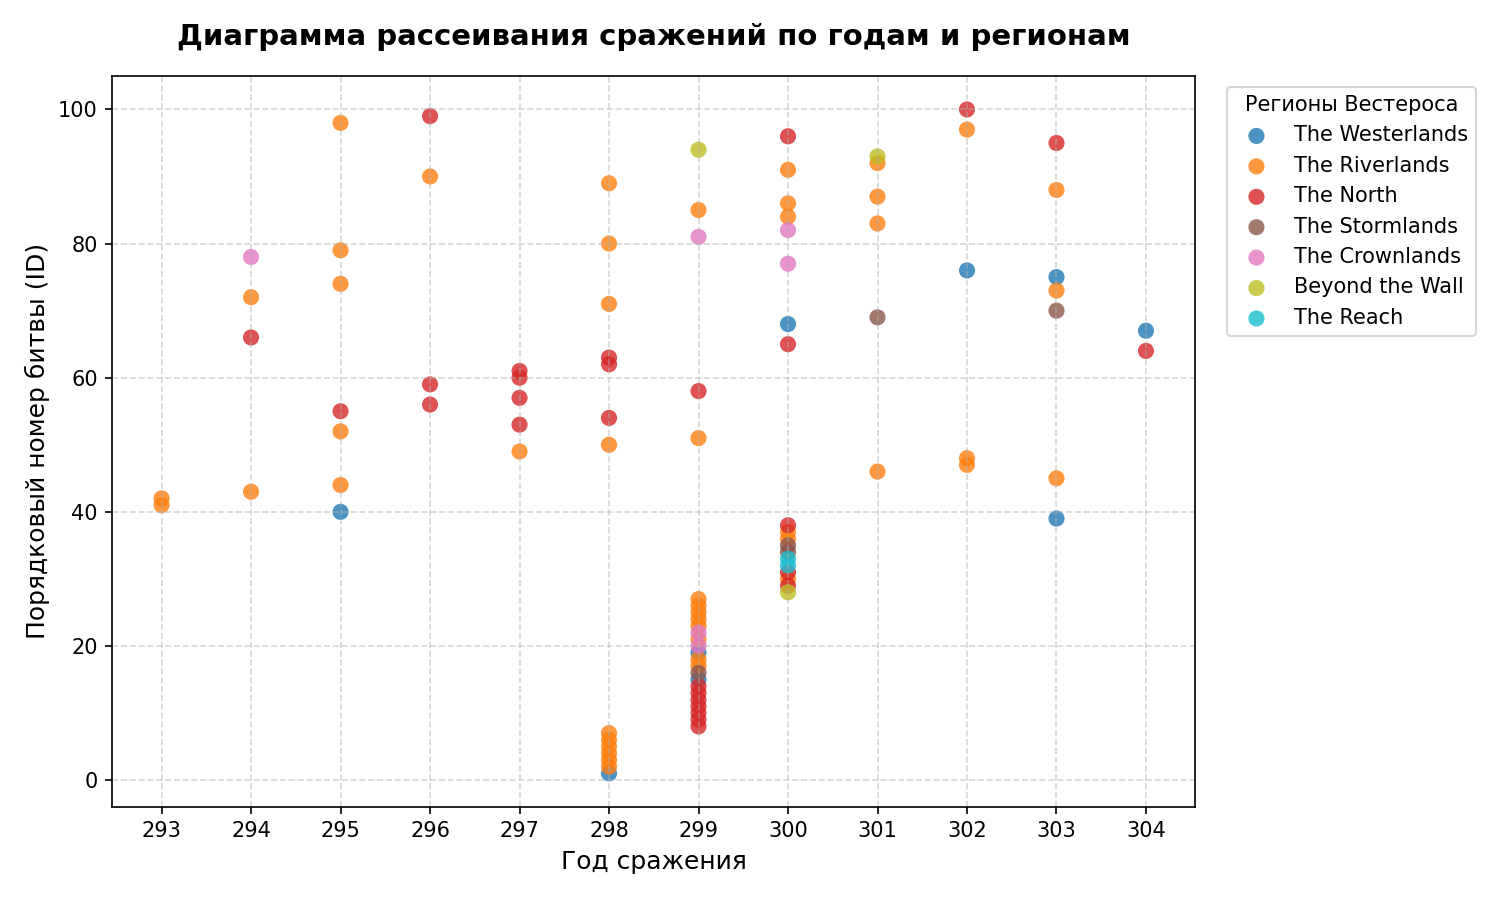
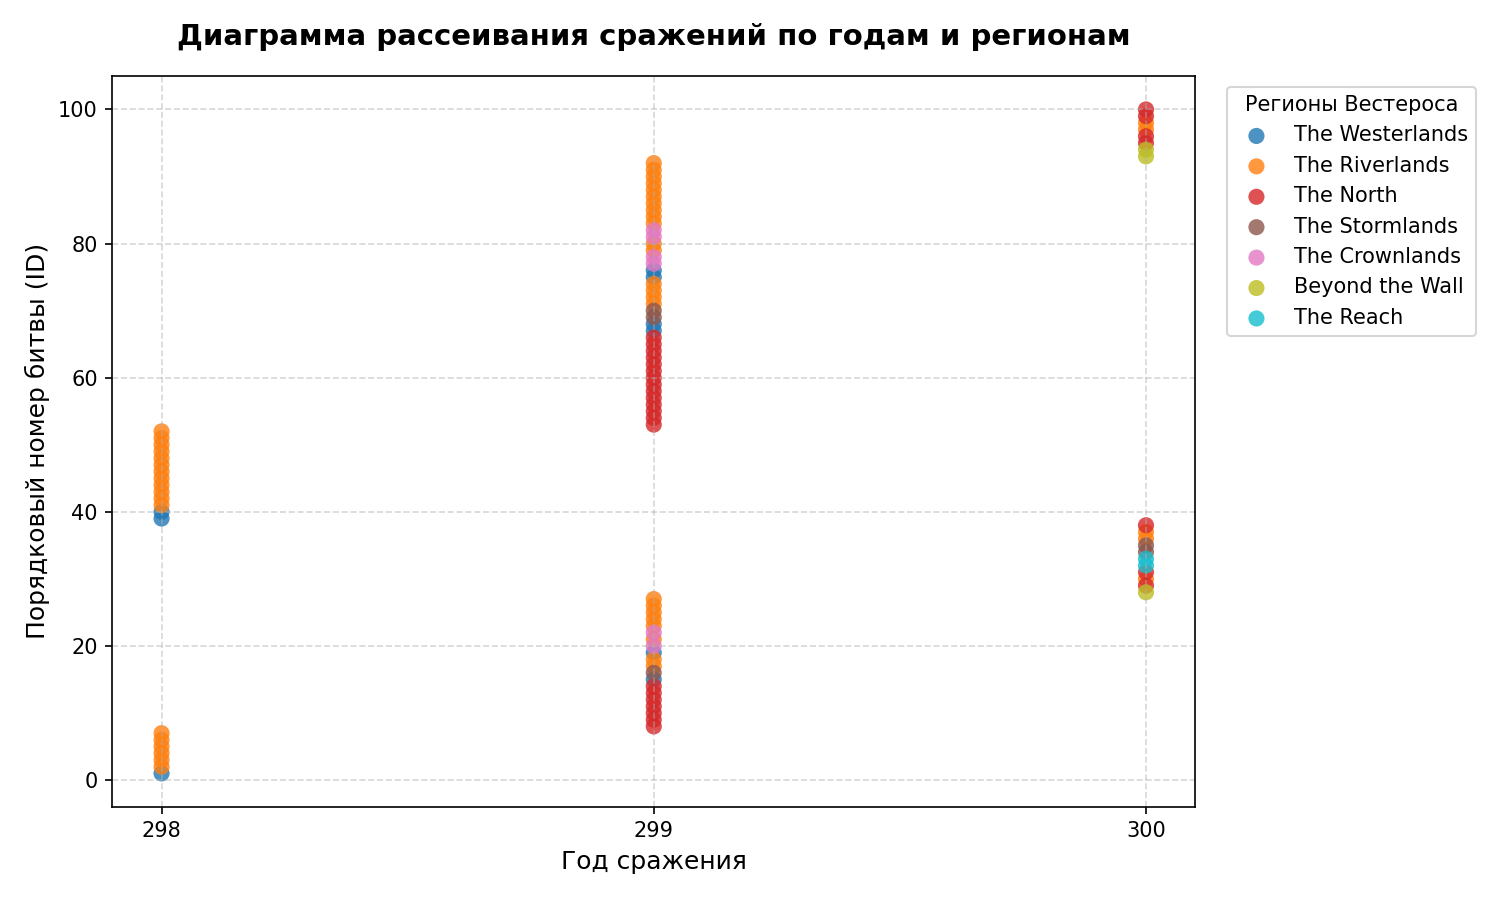
Final version of my project

diff --git a/work/scripts/reports.py b/work/scripts/reports.py
@@ -23,16 +23,12 @@ def generate_simple_report(df_characters):
     try:
         output_dir = "../output"
         os.makedirs(output_dir, exist_ok=True)
-
+        # Фильтрация справочника по мертвым
         filtered_df = df_characters[df_characters["жив/мертв"] == "Мертв"]
         final_df = filtered_df[["id", "имя", "дом", "культура", "пол", "возраст"]]
 
         report_path = os.path.join(output_dir, "1_simple_report.txt")
         with open(report_path, "w", encoding="utf-8") as f:
-            line_length = 115
-            sep_line = "=" * line_length
-            title = "ОТЧЕТ: СПИСОК ПОГИБШИХ ПЕРСОНАЖЕЙ"
-            centered_title = title.center(line_length)
             line_length = 115
             sep_line = "=" * line_length
             title = "ОТЧЕТ: СПИСОК ПОГИБШИХ ПЕРСОНАЖЕЙ"
@@ -69,7 +65,7 @@ def generate_stat_report(df_characters):
                 "==================================================\n\n"
                 "--- АНАЛИЗ КАЧЕСТВЕННЫХ ПЕРЕМЕННЫХ ---\n\n"
             )
-
+            # Анализ долей персонажей по полу и статусу жизни
             for col in ["жив/мертв", "пол"]:
                 f.write(f"Переменная: {col.upper()}\n")
                 f.write("-" * 30 + "\n")
@@ -78,7 +74,7 @@ def generate_stat_report(df_characters):
                 for idx in counts.index:
                     f.write(f"  {idx:<10} | Количество: {counts[idx]:<5} | Доля: {percentages[idx]:.2f}%\n")
                 f.write("\n")
-
+            # Качественные признаки возраста
             f.write("--- АНАЛИЗ КОЛИЧЕСТВЕННЫХ ПЕРЕМЕННЫХ (ВОЗРАСТ) ---\n\n")
             age_col = df_characters["возраст"]
             f.write(f"Минимум (min):      {age_col.min()} лет\n")
@@ -107,7 +103,7 @@ def generate_pivot_report(df_characters):
     try:
         output_dir = "../output"
         os.makedirs(output_dir, exist_ok=True)
-
+        # Создание pivot_table
         top_houses = df_characters["дом"].value_counts().head(10).index.tolist()
         df_filtered = df_characters[df_characters["дом"].isin(top_houses)]
         pivot_table = pd.pivot_table(
@@ -150,12 +146,17 @@ def generate_clustered_bar_chart(df_characters):
         os.makedirs(graphics_dir, exist_ok=True)
 
         df_copy = df_characters.copy()
+        # топ-5 домов по численности
         top_houses = df_copy["дом"].value_counts().iloc[1:6].index.tolist()
+        # объединяем остальные в "Другие Великие Дома"
         df_copy["дом_группа"] = df_copy["дом"].apply(lambda x: x if x in top_houses else "Другие Великие Дома")
+        # таблица: строки - дома, столбцы - жив/мертв
         pivot_data = pd.crosstab(df_copy["дом_группа"], df_copy["жив/мертв"])
+        # фиксируем порядок строк
         pivot_data = pivot_data.reindex(top_houses + ["Другие Великие Дома"])
 
         fig, ax = plt.subplots(figsize=(10, 6))
+        # группированная столбчатая диаграмма
         pivot_data.plot(kind="bar", ax=ax, color=["#e74c3c", "#2ecc71"], width=0.8)
         ax.set_title("Соотношение живых и погибших персонажей по Великим Домам", fontsize=14, fontweight="bold", pad=15)
         ax.set_xlabel("Великие Дома Вестероса", fontsize=12)
@@ -163,6 +164,7 @@ def generate_clustered_bar_chart(df_characters):
         ax.set_xticklabels(pivot_data.index, rotation=15)
         ax.grid(axis="y", linestyle="--", alpha=0.7)
         ax.legend(title="Статус персонажа")
+        # подписываем значения над столбцами
         for p in ax.patches:
             height = p.get_height()
             if height > 0:
@@ -198,7 +200,9 @@ def generate_categorized_histogram(df_characters):
         female_ages = df_copy[df_copy["пол"] == "Жен"]["возраст"]
 
         fig, ax = plt.subplots(figsize=(10, 6))
+        # Гистограмма мужчин
         ax.hist(male_ages, bins=20, alpha=0.6, color="#3498db", label="Мужчины", edgecolor="black")
+        # Гистограмма женщин
         ax.hist(female_ages, bins=20, alpha=0.6, color="#e74c3c", label="Женщины", edgecolor="black")
         ax.set_title("Категоризированная гистограмма распределения возраста", fontsize=14, fontweight="bold", pad=15)
         ax.set_xlabel("Возраст персонажей (лет)", fontsize=12)
@@ -231,13 +235,17 @@ def generate_boxplot(df_characters):
         os.makedirs(graphics_dir, exist_ok=True)
 
         df_copy = df_characters.copy()
-        top_houses = df_copy["дом"].value_counts().iloc[1:6].index.tolist()
+        # Топ-5 домов по численности
+        top_houses = df_copy["дом"].value_counts().head(5).index.tolist()
+        # Список возрастов для каждого дома
         data_to_plot = [df_copy[df_copy["дом"] == house]["возраст"] for house in top_houses]
 
         fig, ax = plt.subplots(figsize=(10, 6))
+        # Ящик с усами
         box = ax.boxplot(data_to_plot, patch_artist=True, labels=top_houses,
                          medianprops=dict(color="black", linewidth=1.5),
                          flierprops=dict(marker="o", markerfacecolor="red", markersize=6, linestyle="none"))
+        # Заливка ящиков
         for patch in box["boxes"]:
             patch.set_facecolor("#3498db")
             patch.set_alpha(0.7)
@@ -272,8 +280,11 @@ def generate_scatter_plot(df_battles):
 
         df_copy = df_battles.copy()
         fig, ax = plt.subplots(figsize=(10, 6))
+        # Уникальные регионы
         regions = df_copy["регион"].unique()
+        # Цветовая карта для регионов
         colors = plt.get_cmap("tab10", len(regions))
+        # точечная диаграмма по регионам
         for i, region in enumerate(regions):
             region_data = df_copy[df_copy["регион"] == region]
             ax.scatter(region_data["год"], region_data["id"], label=region,
@@ -283,6 +294,7 @@ def generate_scatter_plot(df_battles):
         ax.set_ylabel("Порядковый номер битвы (ID)", fontsize=12)
         ax.set_xticks(df_copy["год"].unique())
         ax.grid(True, linestyle="--", alpha=0.5)
+        # Легенда справа за границами графика
         ax.legend(title="Регионы Вестероса", bbox_to_anchor=(1.02, 1), loc="upper left", fontsize=10)
         plt.tight_layout()
         img_path = os.path.join(graphics_dir, "4_scatter_plot.png")

diff --git a/work/scripts/gui.py b/work/scripts/gui.py
@@ -22,6 +22,8 @@ def refresh_table(tree, dataframe):
         dataframe (pd.DataFrame) - данные для отображения.
     Возвращаемый объект: Нет.
     """
+    # Обновляет содержимое таблицы после каждого изменения справочника (добавление, удаление, изменение)
+    # с последующим отображением в графическом интерфейсе
     for item in tree.get_children():
         tree.delete(item)
     for _, row in dataframe.iterrows():
@@ -44,10 +46,12 @@ def delete_character(df_characters, char_tree):
     if not selected:
         messagebox.showwarning("Внимание", "Выберите строку для удаления!")
         return df_characters
-
+    # Получение строки из графического интерфейса
     record_id = int(char_tree.item(selected[0], "values")[0])
     if messagebox.askyesno("Подтверждение", f"Удалить персонажа с ID {record_id}?"):
+        # Удаление строки
         df_characters = df_characters[df_characters["id"] != record_id]
+        # Обновление справочника
         refresh_table(char_tree, df_characters)
     return df_characters
 
@@ -66,7 +70,8 @@ def add_character(root, df_characters, char_tree, settings):
     Возвращаемый объект:
         pd.DataFrame - обновлённый DataFrame персонажей.
     """
-    df_container = [df_characters]   # изменяемый контейнер
+    df_container = [df_characters]   # Изменяемый контейнер создан, чтобы его можно было передать в функцию
+    # on_save, своего рода передача массива по указателю, иначе бы в функции создалась локальная версия
 
     def on_save(data):
         if data["id"] is None:
@@ -105,7 +110,7 @@ def edit_character(root, df_characters, char_tree, settings):
         return df_characters
 
     values = char_tree.item(selected[0], "values")
-
+    # Здесь мы просто меняем значение в справочнике, не меняя ссылку на него
     def on_save(data):
         idx = df_characters[df_characters["id"] == int(data["id"])].index[0]
         for k, v in data.items():
@@ -219,9 +224,11 @@ def create_characters_tab(parent, settings, add_cmd, edit_cmd, del_cmd):
     Возвращаемый объект:
         ttk.Treeview - созданная таблица.
     """
+    # Создаем в отцовском фрейме фрейм для кнопок
     toolbar = tk.Frame(parent, bg=settings["bg_color"])
     toolbar.pack(side="top", fill="x", pady=5)
 
+    # Создаем кнопки
     tk.Button(toolbar, text="Добавить", font=(settings["font_family"], settings["font_size"]),
               bg="#d4edda", command=add_cmd).pack(side="left", padx=5)
     tk.Button(toolbar, text="Редактировать", font=(settings["font_family"], settings["font_size"]),
@@ -230,12 +237,15 @@ def create_characters_tab(parent, settings, add_cmd, edit_cmd, del_cmd):
               bg="#f8d7da", command=del_cmd).pack(side="left", padx=5)
 
     columns = ["id", "имя", "дом", "культура", "пол", "возраст", "жив/мертв"]
+    # Создаем таблицу в старшем фрейме
     tree = ttk.Treeview(parent, columns=columns, show="headings")
+    # Заполняем ее
     for col in columns:
         tree.heading(col, text=col.upper())
         tree.column(col, width=110, anchor="center")
-
+    # Создаем скролл для ориентации по таблице
     scrollbar = ttk.Scrollbar(parent, orient="vertical", command=tree.yview)
+    # Собираем его
     tree.configure(yscrollcommand=scrollbar.set)
     tree.pack(side="left", expand=True, fill="both")
     scrollbar.pack(side="right", fill="y")
@@ -307,7 +317,7 @@ def open_settings_window(root, settings_dict, on_save_callback, ini_path):
     preview_frame.pack(fill="both", expand=True, padx=10, pady=10)
 
     preview_label = None
-
+    # Меню выбора цвета
     def choose_bg_color():
         color = colorchooser.askcolor(title="Выберите цвет фона", initialcolor=bg_color_var.get())
         if color[1]:
@@ -316,6 +326,7 @@ def open_settings_window(root, settings_dict, on_save_callback, ini_path):
             if preview_label:
                 preview_label.configure(bg=bg_color_var.get())
 
+    # Меню выбора шрифта
     def update_preview_font(*args):
         family = font_family_var.get()
         size = font_size_var.get()
@@ -328,7 +339,7 @@ def open_settings_window(root, settings_dict, on_save_callback, ini_path):
     font_family_var.trace_add('write', update_preview_font)
     font_size_var.trace_add('write', update_preview_font)
 
-    # Элементы управления интерфейсом
+    # Кнопки, текст меню settings
     tk.Label(preview_frame, text="Фон главного окна", bg=bg_color_var.get(), fg="black")\
         .grid(row=0, column=0, sticky="w", padx=5, pady=5)
     tk.Button(preview_frame, text="Выбрать цвет фона", command=choose_bg_color)\
@@ -348,7 +359,7 @@ def open_settings_window(root, settings_dict, on_save_callback, ini_path):
     preview_label = tk.Label(preview_frame, text="Пример текста (шрифт изменится)",
                              bg=bg_color_var.get(), fg="black")
     preview_label.grid(row=3, column=0, columnspan=2, pady=10)
-
+    # Сохранение изменений внешнего вида интерфейса
     def save_and_close():
         new_settings = {
             "bg_color": bg_color_var.get(),

diff --git a/work/library/utils.py b/work/library/utils.py
@@ -1,13 +1,12 @@
 """
 Утилиты для загрузки/сохранения настроек, работы с данными и размножения битв.
 
-Модуль функций: загрузка/сохранение настроек, работа с данными,
-приведение к 3НФ, размножение записей о битвах, сохранение/загрузка pickle.
+Модуль функций: загрузка/сохранение настроек,
+работа с данными, размножение записей о битвах, сохранение/загрузка pickle.
 Автор: Давыдов Д.О.
 """
 import os
 import configparser
-import random
 import pandas as pd
 import numpy as np
 
@@ -76,6 +75,7 @@ def save_dataframes_pickle(df_char, df_batt, data_dir):
         data_dir (str) - путь к папке для сохранения.
     Возвращаемый объект: Нет.
     """
+    # Сохранение датасета в формат pickle
     os.makedirs(data_dir, exist_ok=True)
     char_path = os.path.join(data_dir, "characters.pkl")
     batt_path = os.path.join(data_dir, "battles.pkl")
@@ -94,6 +94,7 @@ def load_dataframes_pickle(data_dir):
     Возвращаемый объект:
         tuple - (df_characters, df_battles) или (None, None), если файлов нет.
     """
+    # Загрузка датасета из pickle для более быстрой работы программы
     char_path = os.path.join(data_dir, "characters.pkl")
     batt_path = os.path.join(data_dir, "battles.pkl")
     if os.path.exists(char_path) and os.path.exists(batt_path):
@@ -122,17 +123,17 @@ def expand_battles_data(df_battles, target_count=100):
     needed = target_count - current_count
     repeat_times = (needed // current_count) + 1
     new_rows = []
-
+    # Процесс расширения датасета
     for _, row in df_battles.iterrows():
         for rep in range(repeat_times):
             if len(new_rows) >= needed:
                 break
+            # Получение и преобразование строки датасета
             new_row = row.to_dict()
             new_id = expanded['id'].max() + len(new_rows) + 1
             new_row['id'] = new_id
             new_row['название'] = f"{row['название']} (копия {rep+1})"
-            year_shift = random.randint(-5, 5)
-            new_year = max(0, row['год'] + year_shift)
+            new_year = max(0, row['год'])
             new_row['год'] = new_year
             new_rows.append(pd.DataFrame([new_row]))
 
@@ -153,8 +154,7 @@ def create_initial_data(battles_csv, characters_csv, target_battles=100):
     Создаёт DataFrame персонажей и сражений из исходных CSV-файлов.
 
     Описание:
-        Создаёт DataFrame персонажей и сражений из исходных CSV-файлов,
-        приводит к 3 нормальной форме, размножает битвы.
+        Создаёт DataFrame персонажей и сражений из исходных CSV-файлов, размножает битвы.
     Входные параметры:
         battles_csv (str) - путь к battles.csv.
         characters_csv (str) - путь к character-predictions.csv.
@@ -162,7 +162,7 @@ def create_initial_data(battles_csv, characters_csv, target_battles=100):
     Возвращаемый объект:
         tuple - (df_characters, df_battles) два подготовленных DataFrame.
     """
-    # --- Персонажи ---
+    # Обработка датасета и создание справочника персонажей
     data_char_pred = pd.read_csv(characters_csv)
     char = data_char_pred[["name", "house", "culture", "male", "age", "isAlive"]].copy()
     char["male"] = char["male"].map({1: "Муж", 0: "Жен"})
@@ -175,7 +175,7 @@ def create_initial_data(battles_csv, characters_csv, target_battles=100):
     char.insert(0, "id", range(1, len(char)+1))
     char.columns = ["id", "имя", "дом", "культура", "пол", "возраст", "жив/мертв"]
 
-    # --- Сражения ---
+    # Обработка датасета и создание справочника сражений
     data_battles = pd.read_csv(battles_csv)
     batt = data_battles[["name", "region", "attacker_king", "defender_king", "attacker_outcome", "year"]].copy()
     batt["winner"] = np.where(batt["attacker_outcome"] == "win", batt["attacker_king"], batt["defender_king"])